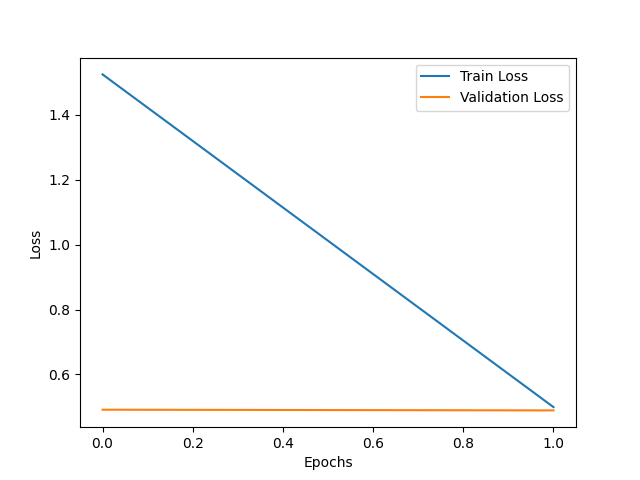
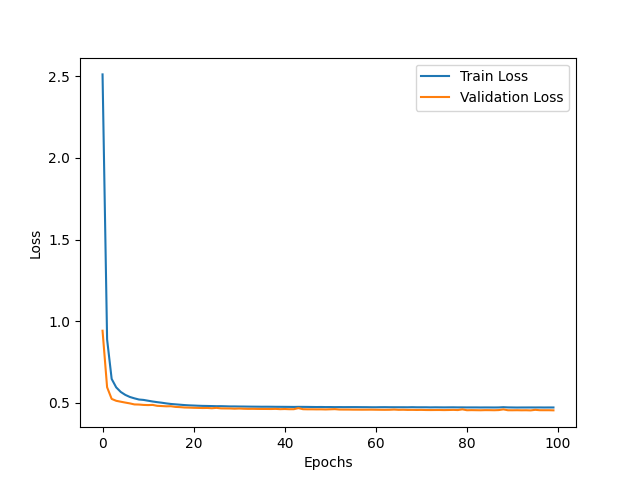
e

diff --git a/08-modelling-07e.py b/08-modelling-07e.py
@@ -1,0 +1,235 @@
+'''
+MODELLING - DEEP LEARNING version d - Adam Optimizer and balanced Classes
+BINARY LABELS - sigmoid activation in output layer
+'''
+import os
+import time
+import json
+import logging
+import joblib
+import numpy as np
+import tensorflow as tf
+import matplotlib.pyplot as plt
+import optuna
+from tensorflow.keras import layers, regularizers
+from tensorflow.keras.utils import plot_model
+from sklearn.preprocessing import PowerTransformer
+from sklearn.model_selection import train_test_split
+from sklearn.metrics import accuracy_score, roc_auc_score, f1_score
+from sklearn.utils.class_weight import compute_class_weight
+
+# Configuration Block
+CONFIG = {
+    'folders': {
+        'figures_folder': 'figures',
+        'input_folder': 'input_files',
+        'output_folder': 'output_files',
+    },
+    'model_id': '07e',
+    'training': {
+        'patience': 20,
+        'epochs_training': 50,
+        'epochs_final': 100,
+        'n_trials': 50
+    }
+}
+
+# Dynamically generate the log file name based on the script name
+LOG_FILE = f"{os.path.splitext(os.path.basename(__file__))[0]}.log"
+
+# Configure logging
+logging.basicConfig(
+    filename=LOG_FILE,
+    level=logging.INFO,
+    format='%(asctime)s - %(levelname)s - %(message)s',
+    filemode='w'
+)
+
+# Set environment variables for multi-threading
+os.environ["OMP_NUM_THREADS"] = str(os.cpu_count())  # Use all available CPU cores
+os.environ["TF_NUM_INTRAOP_THREADS"] = str(os.cpu_count())  # Single operation threading
+os.environ["TF_NUM_INTEROP_THREADS"] = str(os.cpu_count())  # Multi-operation threading
+
+# Disable GPU - AMD not compatible with TensorFlow on Windows
+tf.config.set_visible_devices([], 'GPU')
+
+# Load Data
+df_scaled_x = joblib.load(os.path.join(CONFIG['folders']['input_folder'], 'df2_scaled_x.joblib'))
+df_scaled_y = joblib.load(os.path.join(CONFIG['folders']['input_folder'], 'df2_bin_y.joblib'))
+
+x_scaled = df_scaled_x.values
+y_scaled = df_scaled_y.values
+
+logging.info(f"x scaled shape: {x_scaled.shape}")
+logging.info(f"y scaled shape: {y_scaled.shape}")
+
+# Split data
+x_train_scaled, x_rem_scaled, y_train_scaled, y_rem_scaled = train_test_split(x_scaled, y_scaled, train_size=0.7, random_state=42)
+x_val_scaled, x_test_scaled, y_val_scaled, y_test_scaled = train_test_split(x_rem_scaled, y_rem_scaled, test_size=1/3, random_state=42)
+
+logging.info(f"x_train shape: {x_train_scaled.shape}")
+logging.info(f"y_train shape: {y_train_scaled.shape}")
+logging.info(f"x_val shape: {x_val_scaled.shape}")
+logging.info(f"y_val shape: {y_val_scaled.shape}")
+logging.info(f"x_test shape: {x_test_scaled.shape}")
+logging.info(f"y_test shape: {y_test_scaled.shape}")
+
+# Compute class weights
+class_weights = compute_class_weight(
+    class_weight="balanced",
+    classes=np.unique(y_train_scaled.ravel()),  # Flatten for binary classification
+    y=y_train_scaled.ravel()
+)
+
+class_weight_dict = {i: weight for i, weight in enumerate(class_weights)}
+logging.info(f"Class weights: {class_weight_dict}")
+
+# Function to define a model for hyperparameter tuning
+def create_model(trial):
+    num_features = x_train_scaled.shape[1]
+    num_outputs = y_train_scaled.shape[1]
+
+    # Hyperparameters to tune
+    neurons_ratio = trial.suggest_float('neurons_ratio', 10, 50)
+    dropout_rate = trial.suggest_float('dropout_rate', 0.1, 0.5)
+    activation = trial.suggest_categorical('activation', ['relu', 'tanh', 'sigmoid'])
+    l1_value = trial.suggest_float('l1_value', 1e-5, 1e-2, log=True)
+    l2_value = trial.suggest_float('l2_value', 1e-5, 1e-2, log=True)
+    learning_rate = trial.suggest_float('learning_rate', 1e-5, 1e-2, log=True)
+    batch_size = trial.suggest_categorical('batch_size', [32, 64, 128, 256])
+    reg = regularizers.L1L2(l1=l1_value, l2=l2_value)
+
+    model = tf.keras.Sequential([
+        layers.Input(shape=(num_features,)),
+        layers.Dense(int(num_features * neurons_ratio), kernel_regularizer=reg),
+        layers.BatchNormalization(),
+        layers.Activation(activation),
+        layers.Dropout(dropout_rate),
+
+        layers.Dense(int(num_features * neurons_ratio / 2), kernel_regularizer=reg),
+        layers.BatchNormalization(),
+        layers.Activation(activation),
+        layers.Dropout(dropout_rate / 2),
+
+        layers.Dense(int(num_features * neurons_ratio / 4), kernel_regularizer=reg),
+        layers.Activation(activation),
+        layers.BatchNormalization(),
+        layers.Dropout(dropout_rate / 4),
+
+        layers.Dense(num_outputs, activation='sigmoid')
+    ])
+
+    model.compile(
+        loss='binary_crossentropy',
+        optimizer=tf.keras.optimizers.Adam(learning_rate=learning_rate),
+        metrics=['accuracy', tf.keras.metrics.AUC(), tf.keras.metrics.Precision(), tf.keras.metrics.Recall()]
+    )
+
+    return model, batch_size
+
+# Objective function for Optuna
+def objective(trial):
+    model, batch_size = create_model(trial)
+
+    callbacks = [
+        tf.keras.callbacks.EarlyStopping(patience=CONFIG['training']['patience'], restore_best_weights=True)
+    ]
+
+    history = model.fit(
+        x_train_scaled, y_train_scaled,
+        batch_size=batch_size,
+        epochs=CONFIG['training']['epochs_training'],
+        validation_data=(x_val_scaled, y_val_scaled),
+        callbacks=callbacks,
+        verbose=1,
+        class_weight=class_weight_dict
+    )
+
+    val_loss = min(history.history['val_loss'])
+    logging.info(f"Trial {trial.number}: Validation Loss: {val_loss}")
+    return val_loss
+
+# Run Optuna study
+study = optuna.create_study(direction='minimize')
+logging.info("Starting Optuna study...")
+study.optimize(objective, n_trials=CONFIG['training']['n_trials'], callbacks=[
+    lambda study, trial: logging.info(f"Trial {trial.number} completed with value: {trial.value}, params: {trial.params}")
+])
+logging.info("Optuna study completed.")
+
+# Log the best parameters
+logging.info(f"Best trial: {study.best_trial.params}")
+
+# Train final model with best parameters
+best_params = study.best_trial.params
+final_model, batch_size = create_model(optuna.trial.FixedTrial(best_params))
+
+history = final_model.fit(
+    x_train_scaled, y_train_scaled,
+    batch_size=batch_size,
+    epochs=CONFIG['training']['epochs_final'],
+    validation_data=(x_val_scaled, y_val_scaled),
+    callbacks=[tf.keras.callbacks.EarlyStopping(patience=CONFIG['training']['patience'], restore_best_weights=True)]
+)
+
+# Evaluate the final model on the test dataset
+y_test_pred_prob = final_model.predict(x_test_scaled)
+y_test_pred = (y_test_pred_prob > 0.5).astype(int)  # Convert probabilities to binary predictions
+
+# Initialize a dictionary to store metrics for each output
+metrics_per_output = {}
+
+# Calculate metrics for each output
+num_outputs = y_test_scaled.shape[1]
+for i in range(num_outputs):
+    accuracy = accuracy_score(y_test_scaled[:, i], y_test_pred[:, i])
+    roc_auc = roc_auc_score(y_test_scaled[:, i], y_test_pred_prob[:, i])
+    f1 = f1_score(y_test_scaled[:, i], y_test_pred[:, i], average='weighted')
+
+    # Log metrics for this output
+    logging.info(f"Metrics for Output {i + 1}:")
+    logging.info(f"Accuracy: {accuracy:.4f}")
+    logging.info(f"ROC AUC: {roc_auc:.4f}")
+    logging.info(f"F1 Score: {f1:.4f}")
+
+    # Print metrics for convenience
+    print(f"Metrics for Output {i + 1}:")
+    print(f"Accuracy: {accuracy:.4f}")
+    print(f"ROC AUC: {roc_auc:.4f}")
+    print(f"F1 Score: {f1:.4f}")
+
+    # Store metrics
+    metrics_per_output[f"Output_{i + 1}"] = {
+        "Accuracy": accuracy,
+        "ROC AUC": roc_auc,
+        "F1 Score": f1
+    }
+
+# Optionally save metrics as a JSON file
+metrics_file = os.path.join(CONFIG['folders']['output_folder'], f"metrics-{CONFIG['model_id']}.json")
+with open(metrics_file, "w") as f:
+    json.dump(metrics_per_output, f, indent=4)
+
+logging.info(f"Metrics saved to {metrics_file}")
+
+# Save the final model
+os.makedirs(CONFIG['folders']['output_folder'], exist_ok=True)
+final_model.save(os.path.join(CONFIG['folders']['output_folder'], f"best_model-{CONFIG['model_id']}.keras"))
+
+# Plot Training and Validation Metrics
+os.makedirs(CONFIG['folders']['figures_folder'], exist_ok=True)
+plt.figure()
+plt.plot(history.history['accuracy'], label='Train Accuracy')
+plt.plot(history.history['val_accuracy'], label='Validation Accuracy')
+plt.xlabel('Epochs')
+plt.ylabel('Accuracy')
+plt.legend()
+plt.savefig(os.path.join(CONFIG['folders']['figures_folder'], f"accuracy-{CONFIG['model_id']}.png"))
+
+plt.figure()
+plt.plot(history.history['loss'], label='Train Loss')
+plt.plot(history.history['val_loss'], label='Validation Loss')
+plt.xlabel('Epochs')
+plt.ylabel('Loss')
+plt.legend()
+plt.savefig(os.path.join(CONFIG['folders']['figures_folder'], f"loss-{CONFIG['model_id']}.png"))
